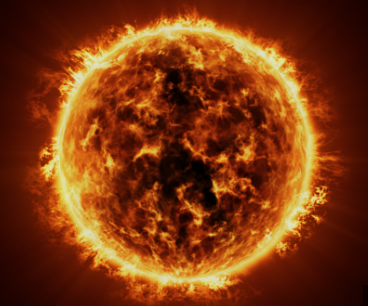
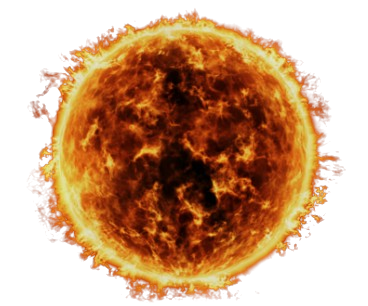
Refactoring

diff --git a/lib/implict_animation/tween_builder/star_1.dart b/lib/implict_animation/tween_builder/star_1.dart
@@ -12,26 +12,47 @@ class _Star_1State extends State<Star_1> {
   @override
   Widget build(BuildContext context) {
     return Scaffold(
-      appBar: AppBar(
-        backgroundColor: Colors.blue,
-        title: const Text('Tween Builder'),
-      ),
-      body: Column(
-        children: [
-          Center(
-              child: TweenAnimationBuilder(
-            duration: const Duration(milliseconds: 300),
-            tween: Tween<double>(begin: 0, end: 2 * math.pi),
-            builder: (_, double angle, __) {
-              return Transform.rotate(
-                angle: angle,
-                child: Image.network(
-                    'https://images.unsplash.com/photo-1671600939110-7b0625c25ef5?ixlib=rb-4.0.3&ixid=M3wxMjA3fDB8MHxwaG90by1wYWdlfHx8fGVufDB8fHx8fA%3D%3D&auto=format&fit=crop&w=464&q=80'),
-              );
-            },
-          ))
-        ],
-      ),
+      // appBar: AppBar(
+      //   backgroundColor: Colors.blue,
+      //   title: const Text('Tween Builder'),
+      // ),
+      body: Stack(
+        
+        children:[ 
+          Container(
+            width: double.infinity, height: double.infinity,
+            child: Image.asset('assets/images/galaxy.jpg', 
+            fit: BoxFit.cover, 
+            ),
+          
+          ), 
+          Padding(
+            padding: const EdgeInsets.symmetric(vertical: 40, 
+            horizontal: 30), 
+            child: Column(
+            children: [
+              // Center(
+              //     child: TweenAnimationBuilder(
+              //   duration: const Duration(milliseconds: 300),
+              //   tween: Tween<double>(begin: 0, end: 2 * math.pi),
+              //   builder: (_, double angle, __) {
+              //     return Transform.rotate(
+              //       angle: angle,
+              //       child: Image.network(
+              //           'https://images.unsplash.com/photo-1671600939110-7b0625c25ef5?ixlib=rb-4.0.3&ixid=M3wxMjA3fDB8MHxwaG90by1wYWdlfHx8fGVufDB8fHx8fA%3D%3D&auto=format&fit=crop&w=464&q=80'),
+              //     );
+              //   },
+              // ))
+                    
+              
+               Image.asset('assets/images/sun.png'),
+              
+            ],
+                    
+            
+                    ),
+          ),
+     ] ),
     );
   }
 }
